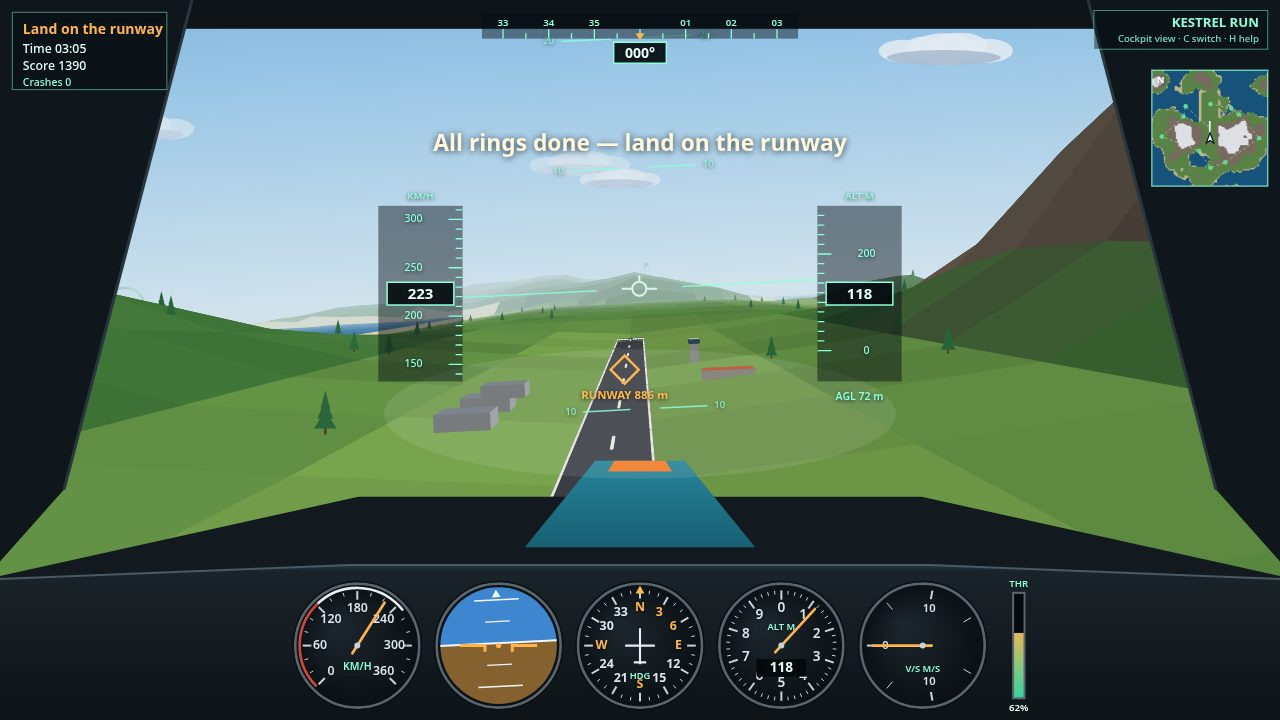
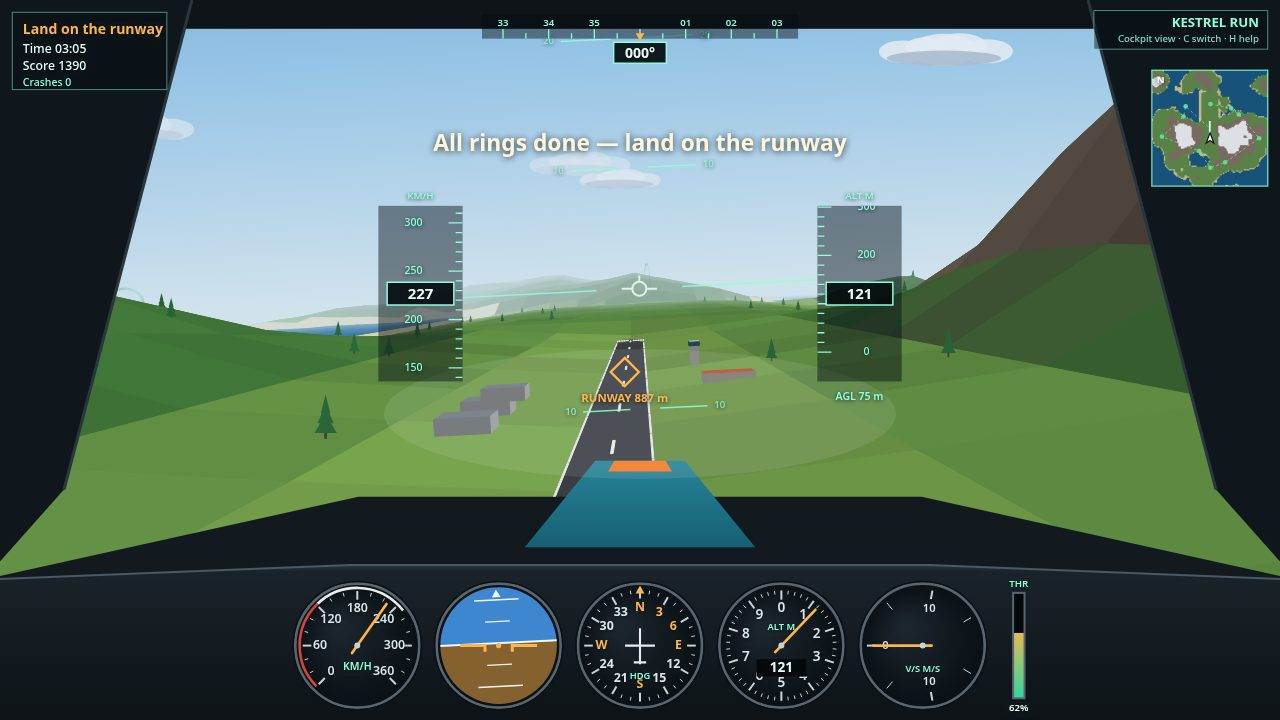
Kestrel Run v3: diverge 4 preset/guard lines from reference wording

diff --git a/game/game.js b/game/game.js
@@ -1426,7 +1426,7 @@ function drawMinimap(ctx, U, S, W) {
 /** Big red PULL UP while the ground is only seconds away at the current sink. */
 function drawPullUp(ctx, U, S, W, H) {
   const p = S.plane;
-  if (p.onGround || p.crashed > 0) return;
+  if (p.crashed > 0 || p.onGround) return;
   const sink = -p.vy;
   if (sink <= 6) return;
   const clearance = p.y - groundHeight(p.x, p.z);
@@ -2344,16 +2344,15 @@ function applyDemo(S, n) {
   if (n === 3) {
     // Cockpit, all 10 rings done, on final approach with the strip ahead.
     baseState(S, 185, 10);
-    placePlane(S, 24, 118, -880, 0, -0.02, 0.05, 62, 0.62);
+    placePlane(S, 24, 121, -880, 0, -0.02, 0.05, 63, 0.62);
     S.view = 'cockpit';
-    S.mission.toast = 'All rings done — land on the runway';
-    S.mission.toastT = 2.6;
+    setToast(S, 'All rings done — land on the runway', 2.6);
     return;
   }
   // Demo 4: short final — 260 m out on the centreline, 14 m above the
   // strip, so the runway fills the frame ahead of the plane.
   baseState(S, 201, 10);
-  placePlane(S, 10, 26, -260, 0, -0.03, 0, 46, 0.3);
+  placePlane(S, 10, 25, -275, 0, -0.03, 0, 46, 0.3);
   S.mission.toast = 'Short final';
   S.mission.toastT = 2.6;
 }
